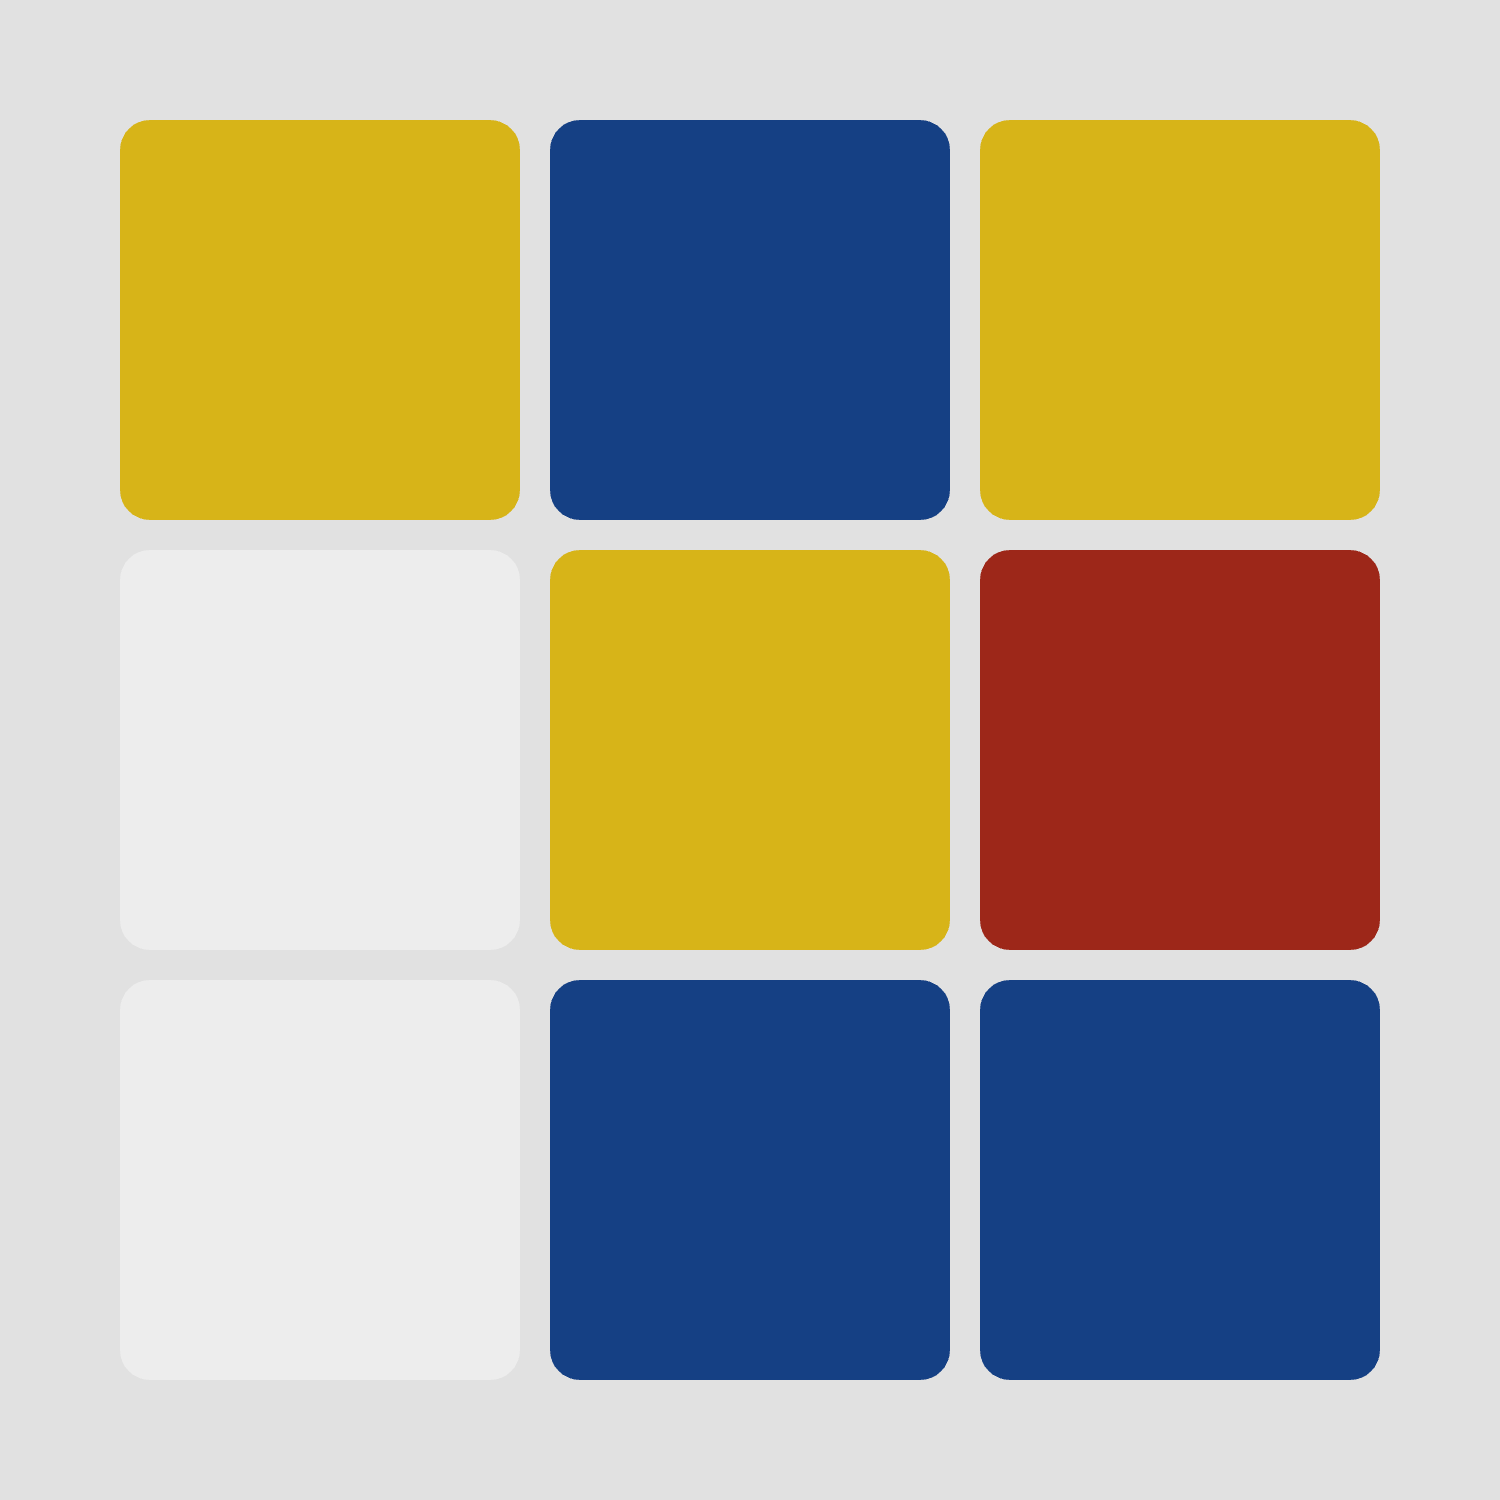
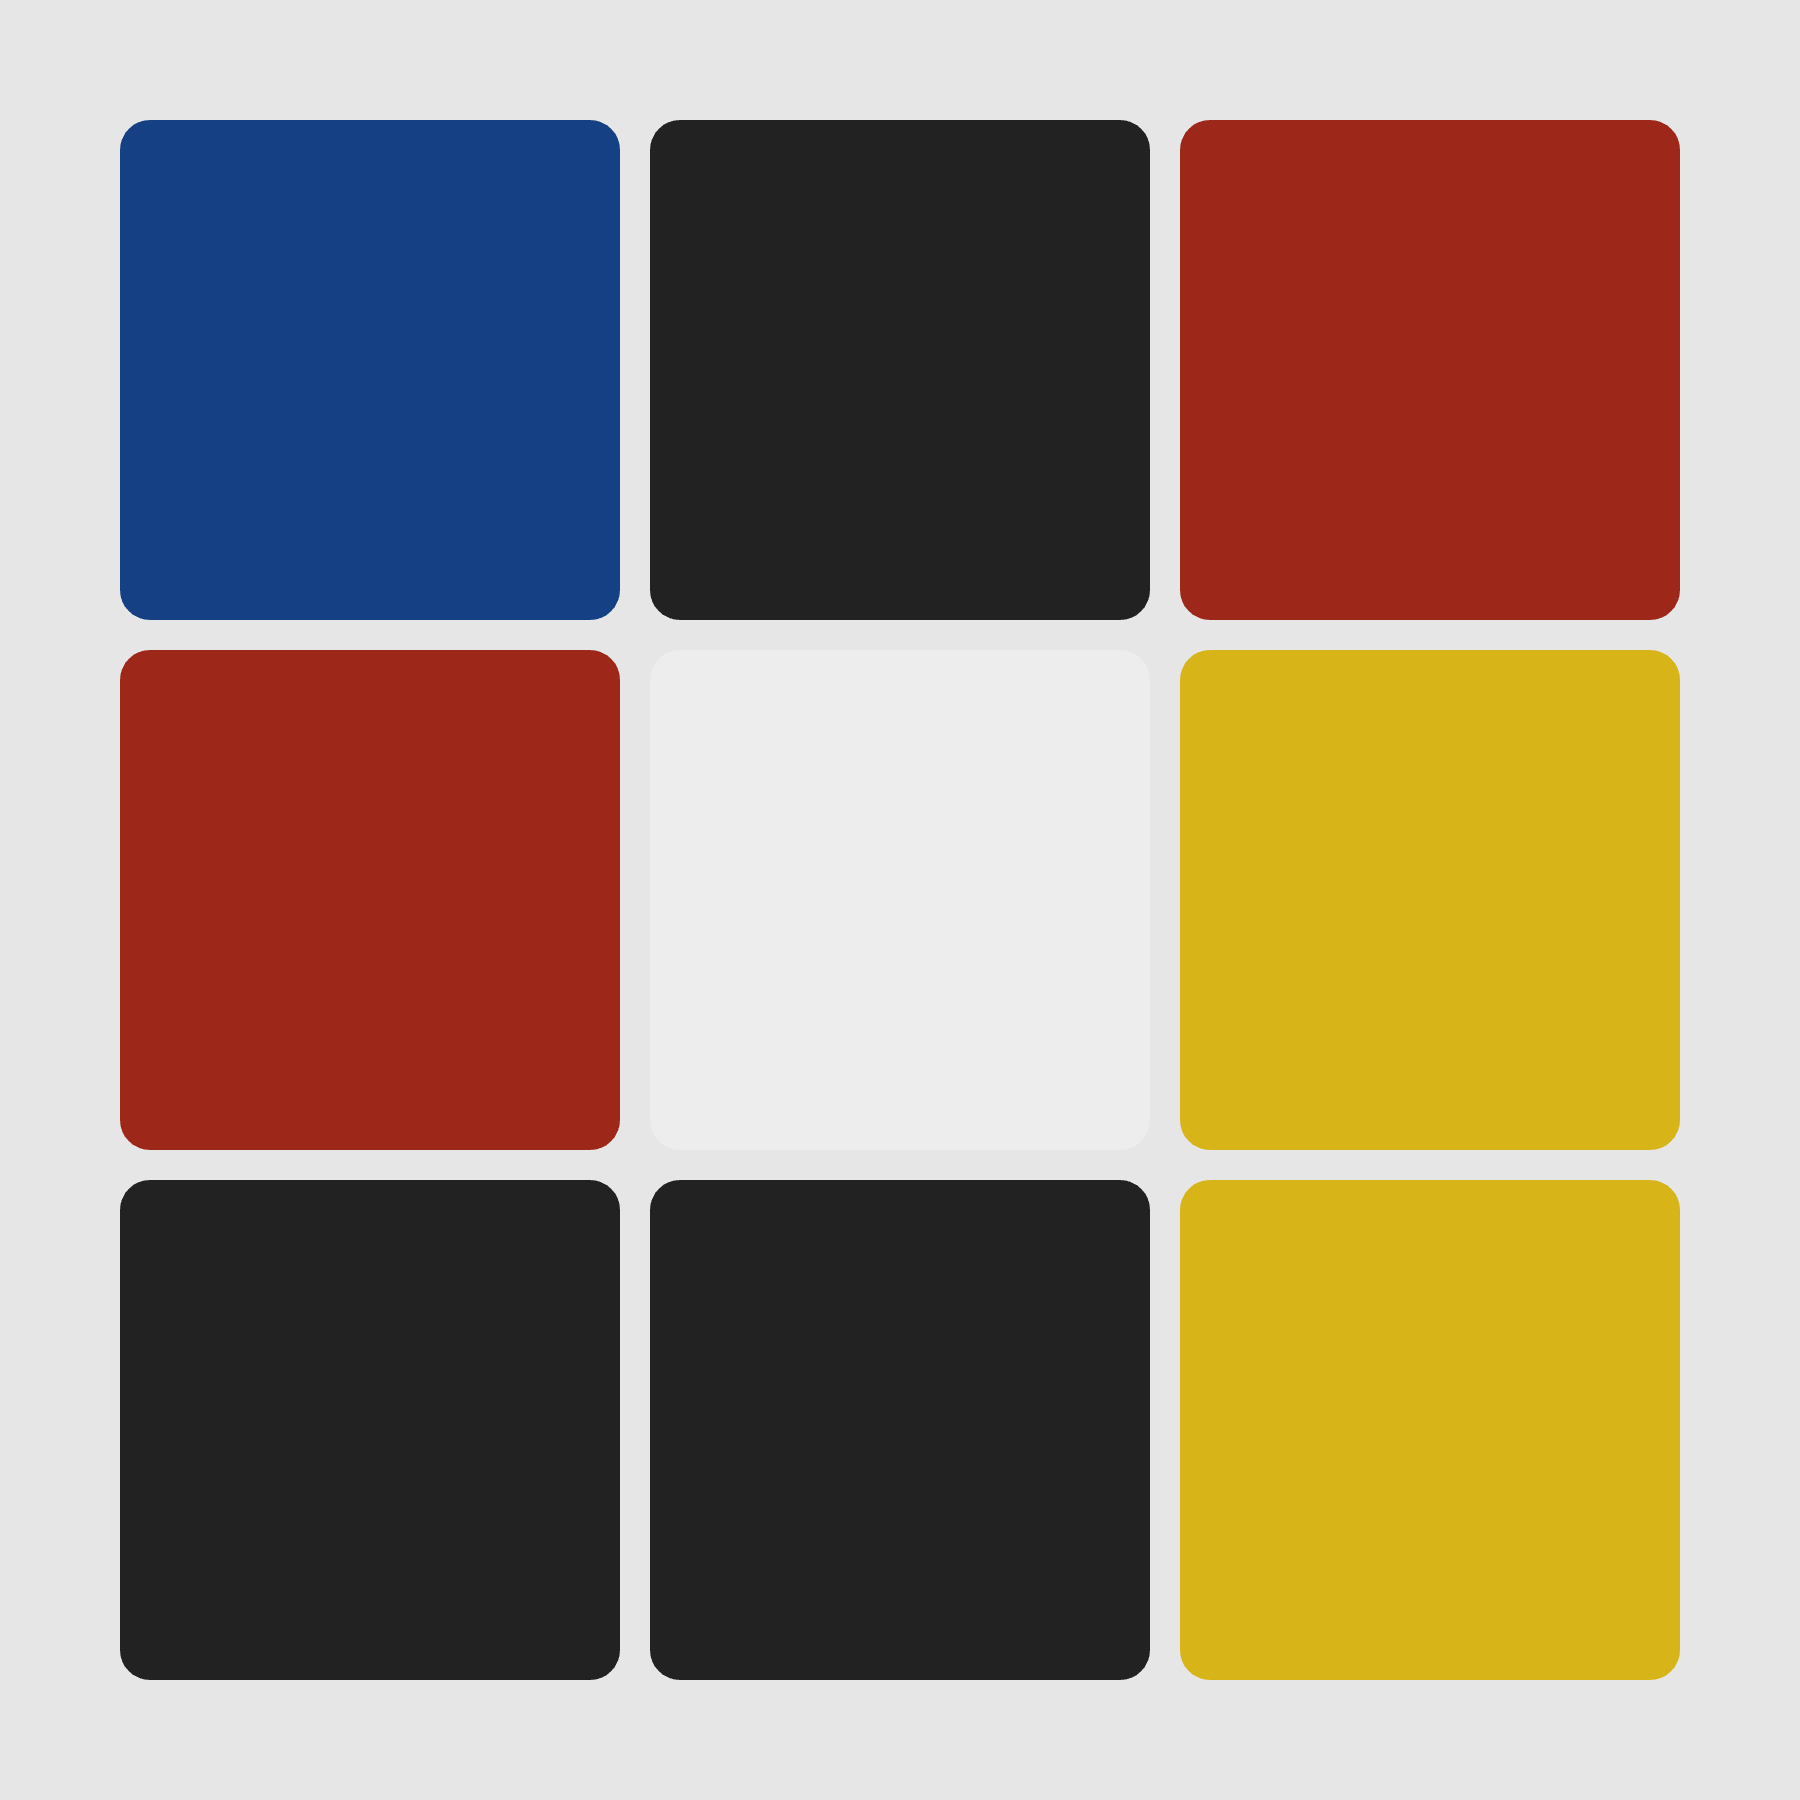
interactivity fix

diff --git a/02-bauhaus-rubiks-cube/interactive-bauhaus-cube.js b/02-bauhaus-rubiks-cube/interactive-bauhaus-cube.js
@@ -1,53 +1,53 @@
 // Global variables
-let wd = 600;
-let ht = 600;
+let wd = 800;
+let ht = 800;
+let dim_cube = 5; // 5
 let ext_space = 40;
 let int_space = 10;
 let round_edges = 10;
 let color_array = [];
-let background_color = 230;
-let sq_size = (wd - ext_space * 2 - int_space * 2) / 3;
+let background_color = 240;
+let sq_size = (wd - ext_space * 2 - int_space * (dim_cube - 1)) / dim_cube;
 var cube;
 
 // Setup function
 function setup() {
     createCanvas(wd, ht);
     noLoop();
-    // frameRate(0.08);
+    // frameRate(0.6);
+
+    // probabilistic colors
     color_array = [
         color(157, 39, 25), // red
         color(21, 64, 132), // blue
         color(34, 34, 34), // black
         color(215, 180, 24), // yellow
-        color(237, 237, 237), // white
-        color(237, 237, 237), // white
-        color(237, 237, 237), // white
+        color(240, 240, 240), // white
+        color(240, 240, 240), // white
+        color(240, 240, 240), // white
+        color(240, 240, 240), // white
+        color(240, 240, 240), // white
+        color(240, 240, 240), // white
+        color(240, 240, 240), // white
     ];
 }
 
 // Draw function
 function draw() {
     background(background_color);
-    let dim_cube = 3; // 3x3 cube
+    ; // 3x3 cube
     cube = new Cube(dim_cube, ext_space, int_space, round_edges, color_array, sq_size);
     for (let i = 0; i < dim_cube * dim_cube; i++) {
         cube.squares[i].display();
     }
 }
 
-// Interactive functino
+// Interactive function
 function mousePressed(event) {
     if (event.button === 0) {
-        let x = Math.floor(mouseX / 200);
-        let y = Math.floor(mouseY / 200);
-        if (x == 1) {
-            1
-            y += 2;
-        }
-        if (x == 2) {
-            y += 4;
-        }
-        cube.squares[x + y].redraw_square();
+        let x = Math.floor(mouseX / (wd / dim_cube));
+        let y = Math.floor(mouseY / (wd / dim_cube));
+        cube.squares[dim_cube * x + y].redraw_square();
     }
     if (event.button === 1 || event.button === 2) {
         redraw();

diff --git a/02-bauhaus-rubiks-cube/bauhaus-cube.js b/02-bauhaus-rubiks-cube/bauhaus-cube.js
@@ -1,12 +1,12 @@
-let wd = 500;
-let ht = 500;
+let wd = 600;
+let ht = 600;
 let ext_space = 40;
 let int_space = 10;
 let round_edges = 10;
 let color_array = [];
 let sq_space;
 
-let background_color = 200;
+let background_color = 230;
 
 function setup() {
     createCanvas(wd, ht);

diff --git a/02-bauhaus-rubiks-cube/index.html b/02-bauhaus-rubiks-cube/index.html
@@ -3,6 +3,7 @@
 <head>
     <script src="https://cdn.jsdelivr.net/npm/p5@1.9.0/lib/p5.js"></script>
     <script src="interactive-bauhaus-cube.js"></script>
+    <!-- <script src="bauhaus-cube.js"></script> -->
 </head>
 
 <body>
